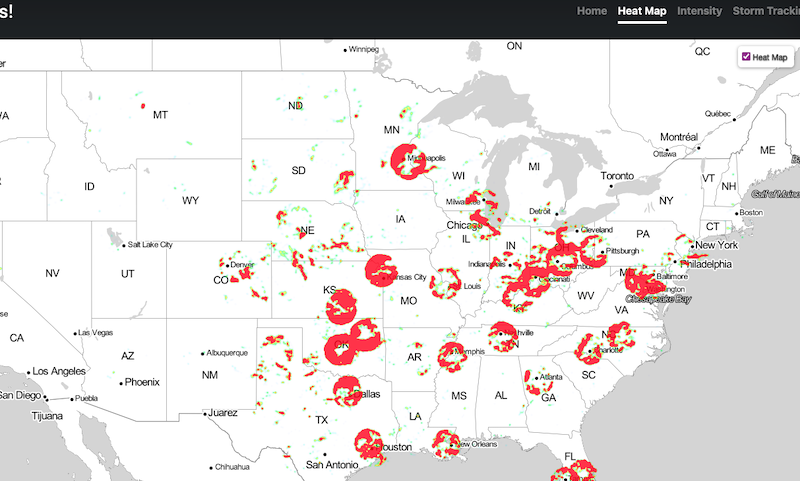
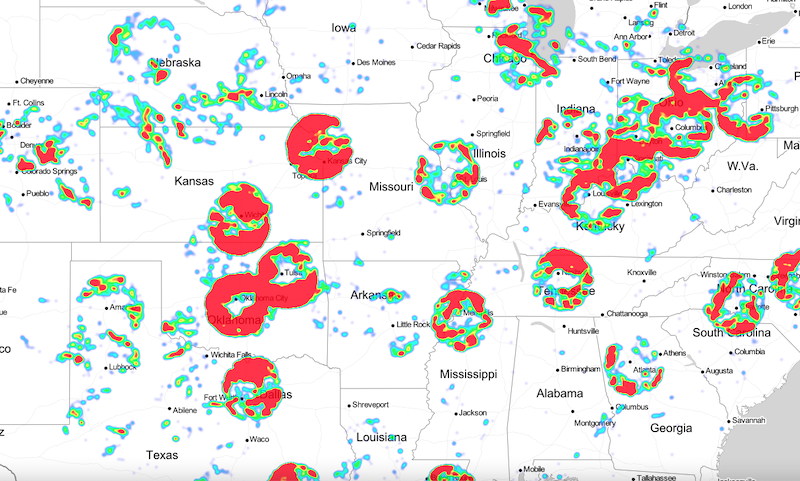
updating heatmap

diff --git a/static/js/markers-heat.js b/static/js/markers-heat.js
@@ -1,69 +1,67 @@
 function heat() {
-  // access mongo data via flask route
+  // Access mongo data via flask route
   d3.json("/api/intensity").then(function(data){
     //console.log(data)
-    // //list for lat, lon points for heat layer
+    // //List for lat, lon points for heat layer
     var alllatlong= [];
-    // lists for cfg
-    //heatLat= [];
-    //heatLon= [];
-    // add lat and lon to lists
-    //heatLat.push(data[0].Lat);
-    //heatLon.push(data[0].Lon);
-    //console.log(heatLat);
-
+    // Variables for loop
     var latdata = data[0].Lat
     var londata = data[0].Lon
     var ids = data[0].PKID;
-    //loop through data to create list of lat lon points
+    //Loop through data to create list of lat lon points
     for (var i = 0; i < ids.length; i++) {
-      //list with lat long point
+      //List with lat long point
       eachlatlong = [latdata[i], londata[i]];
-      //list of lists for heatlayer
+      //List of lists for heatlayer
       alllatlong.push(eachlatlong);
     };
-
     //console.log(alllatlong);
-    //builidng the map
-    //base layer is grayscale
-    var baseLayer = L.tileLayer('https://stamen-tiles-{s}.a.ssl.fastly.net/toner-lite/{z}/{x}/{y}{r}.{ext}', {
+
+    /////////Builidng the map
+    //Base layer is grayscale
+    var base = L.tileLayer('https://stamen-tiles-{s}.a.ssl.fastly.net/toner-lite/{z}/{x}/{y}{r}.{ext}', {
     attribution: 'Map tiles by <a href="http://stamen.com">Stamen Design</a>, <a href="http://creativecommons.org/licenses/by/3.0">CC BY 3.0</a> &mdash; Map data &copy; <a href="https://www.openstreetmap.org/copyright">OpenStreetMap</a> contributors',
     maxZoom: 18,
     subdomains: 'abcd',
     minZoom: 0,
     ext: 'png'
     });
-
+    // Topography layer
+    var topo = L.tileLayer('https://{s}.tile.opentopomap.org/{z}/{x}/{y}.png', {
+    maxZoom: 18,
+    attribution: 'Map data: &copy; <a href="https://www.openstreetmap.org/copyright">OpenStreetMap</a> contributors, <a href="http://viewfinderpanoramas.org">SRTM</a> | Map style: &copy; <a href="https://opentopomap.org">OpenTopoMap</a> (<a href="https://creativecommons.org/licenses/by-sa/3.0/">CC-BY-SA</a>)'
+    });
+    //Define map
     var myMap = L.map('map', {
     center: [ 37.09, -95.71 ],
     zoom: 5,
-    layers: [baseLayer]
+    layers: [base]
     });
-
+    // Create heatmap
     var heatmap = L.webGLHeatmap({
+      alphaRange: 0.2,
       opacity: 0.8,
     });
-
+    // Insert lat,lon data into the map
     heatmap.setData(alllatlong);
-
+    // Add heat layer to map and decrease intensity so we can see the density more clearly
     myMap.addLayer( heatmap );
-    
-
+    heatmap.multiply(0.7);
     // Define a baseMaps object to hold our base layers
     var baseMaps = {
-    "Grayscale": baseLayer
-    };
-    // Define a baseMaps object to hold our overlay
+      "Grayscale": base,
+      "Topography": topo,
+      };
+    // Define object to hold our overlay
     var overlayMaps = {
-    "Heat Map": heatmap
-    };
+      "Heat Map": heatmap
+      };
     // Create a layer control
     // Pass it our baseMaps and overlayMaps
     // Add the layer control to the map
-    L.control.layers(null, overlayMaps, {
+    L.control.layers(baseMaps, overlayMaps, {
     collapsed: false
     }).addTo(myMap);
-
 
   });
 };
